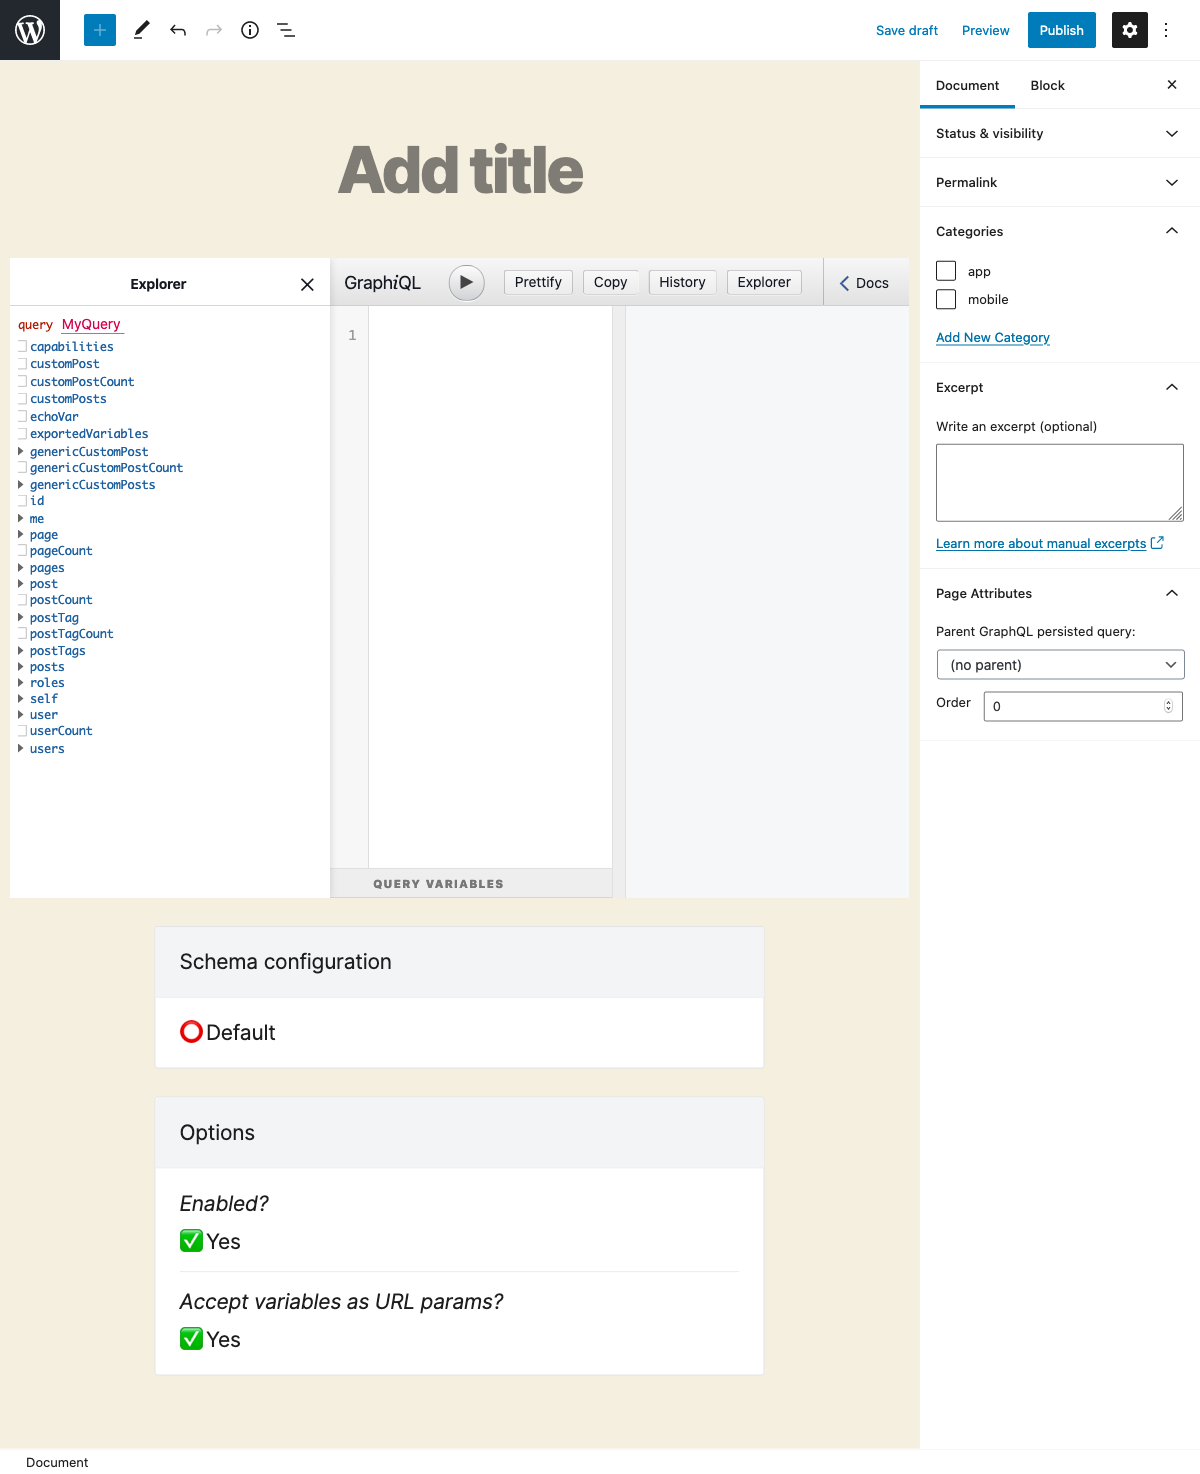
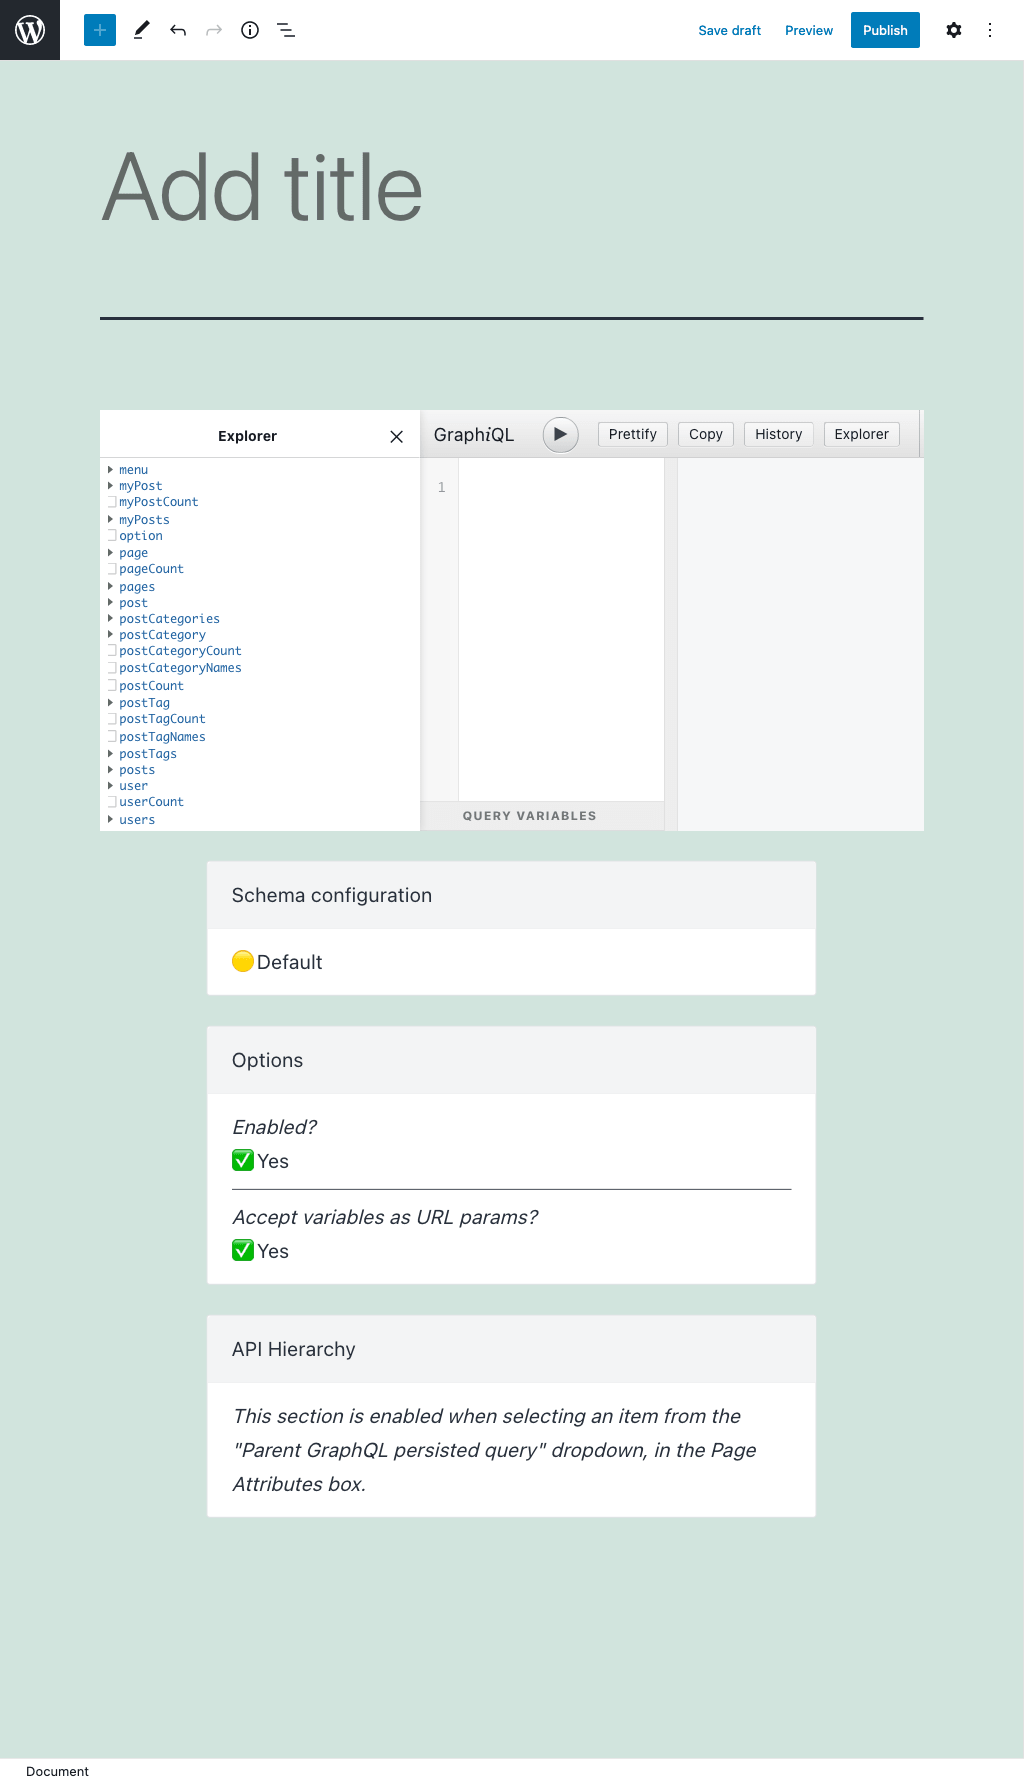
Merge pull request #853 from leoloso/improve-docs-for-v0.8
Improve docs for v0.8

diff --git a/docs/en/modules/schema-configuration.md b/docs/en/modules/schema-configuration.md
@@ -8,9 +8,8 @@ The schema can be configured with the following elements (more items can also pr
 
 - Access Control Lists: to define who can access the schema
 - Cache Control Lists: to set-up HTTP caching
-- Field Deprecation Lists: to version the schema
 
-Modules can define their own configuration to be applied in the schema through the `Options` box, including:
+Modules can define their own configuration to be applied in the schema through their own option blocks, including:
 
 - Setting the schema as public or private
 - Enabling "unrestricted" fields for the admin
@@ -43,7 +42,7 @@ If the Custom Endpoint or Persisted Query has value `"Default"`, then the schema
 
 ## Editor Inputs
 
-These are the inputs in the body of the editor:
+These inputs in the body of the editor are shipped with the plugin (more inputs can be added by extensions):
 
 <table markdown="1">
 <thead>
@@ -62,12 +61,18 @@ These are the inputs in the body of the editor:
     <td>(If module `Cache Control` is enabled) Manage the behavior of HTTP caching, by selecting the Cache Control Lists that must be applied to the custom endpoint or persisted query</td>
 </tr>
 <tr>
-    <td>**Field Deprecation Lists**</td>
-    <td>(If module `Field Deprecation` is enabled) Manage deprecation of fields in the schema, by selecting the Field Deprecation Lists that must be applied to the custom endpoint or persisted query</td>
+    <td>**Schema for the Admin**</td>
+    <td>Add "unrestricted" fields to the GraphQL schema (such as `Root.unrestrictedPosts`, `User.roles`, and others), to be used by the admin only. If `"Default"` is selected, the value selected in the Settings is used.</td>
 </tr>
 <tr>
-    <td>**Options**</td>
-    <td>Customize the behavior of the schema configuration:<br/><br/>**Public/Private Schema:** (If module `Public/Private Schema` is enabled)<br/>When access to some a field or directive is denied, there are 2 ways for the API to behave:<ul markdown="1"><li>`"Public"`: Provide an error message to the user, indicating why access is denied. This behavior makes the metadata from the schema always available.</li><li>`"Private"`: The error message indicates that the field or directive does not exist. This behavior exposes the metadata from the schema only to those users who can access it.</li></ul>If `"Default"` is selected, the value selected in the Settings is used.<br/><br/>**Add admin fields to the schema?:** (If module `Schema for the Admin` is enabled)<br/>Add "unrestricted" fields to the GraphQL schema (such as `Root.unrestrictedPosts`, `User.roles`, and others), to be used by the admin only. If `"Default"` is selected, the value selected in the Settings is used.<br/><br/>**Namespace Types and Interfaces?:** (If module `Schema Namespacing` is enabled)<br/>Define if to have all types and interfaces in the schema automatically namespaced. If `"Default"` is selected, the value selected in the Settings is used.<br/><br/>**Mutation Scheme:** (If module `Nested Mutations` is enabled)<br/>Define if to enable mutations, and if the redundant fields from the root must be removed. If `"Default"` is selected, the value selected in the Settings is used.</td>
+    <td>**Public/Private Schema**</td>
+    <td>When access to some a field or directive is denied, there are 2 ways for the API to behave:<ul markdown="1"><li>`"Public"`: Provide an error message to the user, indicating why access is denied. This behavior makes the metadata from the schema always available.</li><li>`"Private"`: The error message indicates that the field or directive does not exist. This behavior exposes the metadata from the schema only to those users who can access it.</li></ul>If `"Default"` is selected, the value selected in the Settings is used.</td>
+</tr>
+<tr>
+    <td>**Mutation Scheme**</td><td>Define if to enable mutations, and if the redundant fields from the root must be removed. If `"Default"` is selected, the value selected in the Settings is used.</td>
+</tr>
+<tr>
+    <td>**Namespace Types and Interfaces?**</td><td>Define if to have all types and interfaces in the schema automatically namespaced. If `"Default"` is selected, the value selected in the Settings is used.</td>
 </tr>
 </tbody>
 </table>

diff --git a/docs/en/modules/custom-endpoints.md b/docs/en/modules/custom-endpoints.md
@@ -58,7 +58,7 @@ By default, the custom endpoint has path `/graphql/`, and this value is configur
 
 ## Editor Inputs
 
-These are the inputs in the body of the editor:
+These inputs in the body of the editor are shipped with the plugin (more inputs can be added by extensions):
 
 <table markdown="1">
 <thead>
@@ -78,7 +78,19 @@ These are the inputs in the body of the editor:
 </tr>
 <tr>
   <td>**Options**</td>
-  <td>Customize the behavior of the custom endpoint: <ul markdown="1"><li>**Enabled?:** If the custom endpoint is enabled.<br/>It's useful to disable a custom endpoint it's a parent query in an API hierarchy</li><li>**Expose GraphiQL client?:** Enable/disable attaching a GraphiQL client to the endpoint, accessible under `?view=graphiql`</li><li>**Expose the Interactive Schema client?:** Enable/disable attaching an Interactive schema client to the endpoint, accessible under `?view=schema`</li><li>**Inherit query from ancestor(s)?:** Use the same query as the parent custom endpoint.<br/>This option is available when module `"API Hierarchy"` is enabled, and the custom endpoint has a parent query (selected on the Document settings)</li></ul></td>
+  <td>Select if the custom endpoint is enabled.<br/>It's useful to disable a custom endpoint it's a parent query in an API hierarchy</td>
+</tr>
+<tr>
+  <td>**GraphiQL**</td>
+  <td>Enable/disable attaching a GraphiQL client to the endpoint, accessible under `?view=graphiql`</td>
+</tr>
+<tr>
+  <td>**Interactive Schema**</td>
+  <td>Enable/disable attaching an Interactive schema client to the endpoint, accessible under `?view=schema`</td>
+</tr>
+<tr>
+  <td>**API Hierarchy**</td>
+  <td>Use the same query as the parent custom endpoint.<br/>This section is enabled when the custom endpoint has a parent query (selected on the Document settings)</td>
 </tr>
 </tbody>
 </table>

diff --git a/docs/en/modules/persisted-queries.md b/docs/en/modules/persisted-queries.md
@@ -101,7 +101,7 @@ By default, the persisted query's endpoint has path `/graphql-query/`, and this 
 
 ## Editor Inputs
 
-These are the inputs in the body of the editor:
+These inputs in the body of the editor are shipped with the plugin (more inputs can be added by extensions):
 
 <table markdown="1">
 <thead>
@@ -125,7 +125,11 @@ These are the inputs in the body of the editor:
 </tr>
 <tr>
   <td>**Options**</td>
-  <td>Customize the behavior of the persisted query: <ul markdown="1"><li>**Enabled?:** If the persisted query is enabled.<br/>It's useful to disable a persisted query it's a parent query in an API hierarchy</li><li>**Accept variables as URL params?:** Allow URL params to override the values for variables defined in the GraphiQL client</li><li>**Inherit query from ancestor(s)?:** Use the same query as the parent persisted query.<br/>This option is available when module `API Hierarchy` is enabled, and the persisted query has a parent query (selected on the Document settings)</li></ul></td>
+  <td>Customize the behavior of the persisted query: <ul markdown="1"><li>**Enabled?:** If the persisted query is enabled.<br/>It's useful to disable a persisted query it's a parent query in an API hierarchy</li><li>**Accept variables as URL params?:** Allow URL params to override the values for variables defined in the GraphiQL client</li></ul></td>
+</tr>
+<tr>
+  <td>**API Hierarchy:**</td>
+  <td>Use the same query as the parent persisted query.<br/>This option is available when the persisted query has a parent query (selected on the Document settings)</td>
 </tr>
 </tbody>
 </table>
